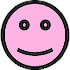
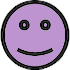
Add one more label colour.

diff --git a/src/rasterMain.js b/src/rasterMain.js
@@ -1752,7 +1752,13 @@ function loadFromString(str,showerrors,allowempty,strsource) {
         for (k=0; k<lp.s.length; k++)
             p.addservice(lp.s[k]);
         p.threats = lp.t;
-        if (lp.c && lp.c.length==7)
+        // Upgrade from version 1 to version 2: an additional color was added
+        if (upgrade_1_2 && lp.c && lp.c.length==7) {
+        	lp.c[7] = lp.c[6];
+        	lp.c[6] = lp.c[5];
+        	lp.c[5] = _("Pink");
+        }
+        if (lp.c && lp.c.length==8)
             p.labels = lp.c;
         p.store();
     }
@@ -2999,6 +3005,7 @@ function initTabDiagrams() {
     $('#mi_ccyellow').on('mouseup', colorfunc('yellow') );
     $('#mi_ccgreen').on('mouseup', colorfunc('green') );
     $('#mi_ccblue').on('mouseup', colorfunc('blue') );
+    $('#mi_ccpink').on('mouseup', colorfunc('pink') );
     $('#mi_ccpurple').on('mouseup', colorfunc('purple') );
     $('#mi_ccgrey').on('mouseup', colorfunc('grey') );
     $('#mi_ccedit').on('mouseup', showLabelEditForm );
@@ -3093,6 +3100,7 @@ function initTabDiagrams() {
     $('#mi_scyellow').on('mouseup', selcolorfunc('yellow') );
     $('#mi_scgreen').on('mouseup', selcolorfunc('green') );
     $('#mi_scblue').on('mouseup', selcolorfunc('blue') );
+    $('#mi_scpink').on('mouseup', selcolorfunc('pink') );
     $('#mi_scpurple').on('mouseup', selcolorfunc('purple') );
     $('#mi_scgrey').on('mouseup', selcolorfunc('grey') );
     $('#mi_scedit').on('mouseup', showLabelEditForm );
@@ -3198,16 +3206,18 @@ function populateLabelMenu() {
     $('#mi_ccyellow .labeltext').html( '"' + H(p.labels[2]) + '"' );
     $('#mi_ccgreen .labeltext').html( '"' + H(p.labels[3]) + '"' );
     $('#mi_ccblue .labeltext').html( '"' + H(p.labels[4]) + '"' );
-    $('#mi_ccpurple .labeltext').html( '"' + H(p.labels[5]) + '"' );
-    $('#mi_ccgrey .labeltext').html( '"' + H(p.labels[6]) + '"' );
+    $('#mi_ccpink .labeltext').html( '"' + H(p.labels[5]) + '"' );
+    $('#mi_ccpurple .labeltext').html( '"' + H(p.labels[6]) + '"' );
+    $('#mi_ccgrey .labeltext').html( '"' + H(p.labels[7]) + '"' );
     
     $('#mi_scred .labeltext').html( '"' + H(p.labels[0]) + '"' );
     $('#mi_scorange .labeltext').html( '"' + H(p.labels[1]) + '"' );
     $('#mi_scyellow .labeltext').html( '"' + H(p.labels[2]) + '"' );
     $('#mi_scgreen .labeltext').html( '"' + H(p.labels[3]) + '"' );
     $('#mi_scblue .labeltext').html( '"' + H(p.labels[4]) + '"' );
-    $('#mi_scpurple .labeltext').html( '"' + H(p.labels[5]) + '"' );
-    $('#mi_scgrey .labeltext').html( '"' + H(p.labels[6]) + '"' );
+    $('#mi_scpink .labeltext').html( '"' + H(p.labels[5]) + '"' );
+    $('#mi_scpurple .labeltext').html( '"' + H(p.labels[6]) + '"' );
+    $('#mi_scgrey .labeltext').html( '"' + H(p.labels[7]) + '"' );
 }
 
 function showLabelEditForm() {
@@ -3221,6 +3231,7 @@ function showLabelEditForm() {
         <div class="smallblock Byellow"></div><input id="field_yellow" class="field_label_text" name="fld_yellow" type="text" value="_YELLOW_"><br>\
         <div class="smallblock Bgreen"></div><input id="field_green" class="field_label_text" name="fld_green" type="text" value="_GREEN_"><br>\
         <div class="smallblock Bblue"></div><input id="field_blue" class="field_label_text" name="fld_blue" type="text" value="_BLUE_"><br>\
+        <div class="smallblock Bpink"></div><input id="field_pink" class="field_label_text" name="fld_pink" type="text" value="_PINK_"><br>\
         <div class="smallblock Bpurple"></div><input id="field_purple" class="field_label_text" name="fld_purple" type="text" value="_PURPLE_"><br>\
         <div class="smallblock Bgrey"></div><input id="field_grey" class="field_label_text" name="fld_grey" type="text" value="_GREY_"><br>\
         </form>\
@@ -3230,8 +3241,9 @@ function showLabelEditForm() {
     snippet = snippet.replace(/_YELLOW_/g, H(p.labels[2]));
     snippet = snippet.replace(/_GREEN_/g, H(p.labels[3]));
     snippet = snippet.replace(/_BLUE_/g, H(p.labels[4]));
-    snippet = snippet.replace(/_PURPLE_/g, H(p.labels[5]));
-    snippet = snippet.replace(/_GREY_/g, H(p.labels[6]));
+    snippet = snippet.replace(/_PINK_/g, H(p.labels[5]));
+    snippet = snippet.replace(/_PURPLE_/g, H(p.labels[6]));
+    snippet = snippet.replace(/_GREY_/g, H(p.labels[7]));
     dialog.append(snippet);
     var dbuttons = [];
     dbuttons.push({
@@ -3248,9 +3260,10 @@ function showLabelEditForm() {
                 p.labels[2] = trimwhitespace(String($('#field_yellow').val())).substr(0,50);
                 p.labels[3] = trimwhitespace(String($('#field_green').val())).substr(0,50);
                 p.labels[4] = trimwhitespace(String($('#field_blue').val())).substr(0,50);
-                p.labels[5] = trimwhitespace(String($('#field_purple').val())).substr(0,50);
-                p.labels[6] = trimwhitespace(String($('#field_grey').val())).substr(0,50);
-                for (var i=0; i<=6; i++) {
+                p.labels[5] = trimwhitespace(String($('#field_pink').val())).substr(0,50);
+                p.labels[6] = trimwhitespace(String($('#field_purple').val())).substr(0,50);
+                p.labels[7] = trimwhitespace(String($('#field_grey').val())).substr(0,50);
+                for (var i=0; i<=7; i++) {
                     if (p.labels[i]=="")
                         p.labels[i] = Project.defaultlabels[i];
                 }
@@ -3264,7 +3277,7 @@ function showLabelEditForm() {
         title: _("Edit labels"),
         modal: true,
         width: 285,
-        height: 290,
+        height: 320,
         buttons: dbuttons
     });
 }
@@ -4453,6 +4466,7 @@ function listFromCluster(nc) {
     node = node.concat(sortednodeswithcolor('yellow',nc.childnodes));
     node = node.concat(sortednodeswithcolor('green',nc.childnodes));
     node = node.concat(sortednodeswithcolor('blue',nc.childnodes));
+    node = node.concat(sortednodeswithcolor('pink',nc.childnodes));
     node = node.concat(sortednodeswithcolor('purple',nc.childnodes));
     node = node.concat(sortednodeswithcolor('grey',nc.childnodes));
     node = node.concat(sortednodeswithcolor('none',nc.childnodes));

diff --git a/common/css/raster.css b/common/css/raster.css
@@ -444,7 +444,8 @@ div.popupmenuitem {
 .Byellow {background: rgb(248,255,140);}
 .Bgreen {background: rgb(204,255,144);}
 .Bblue {background: rgb(193,238,255);}
-.Bpurple {background: rgb(239,169,224);}
+.Bpink {background: rgb(254,188,251);}
+.Bpurple {background: rgb(190,148,208);}
 .Bgrey {background: rgb(177,177,177);}
 .labeltext {
     display: inline-block;
@@ -778,7 +779,8 @@ div.nodeheader {
 .yellow {color: black !important;}
 .green {color: darkgreen !important;}
 .blue {color: darkblue !important;}
-.purple {color: black !important;}
+.pink {color: black !important;}
+.purple {color: white !important;}
 .grey {color: #aaa !important;}
 .Chide {color: black !important;}
 div.nodeheader input.inplace_field {

diff --git a/src/rasterProject.js b/src/rasterProject.js
@@ -84,8 +84,8 @@ var Project = function(id,asstub) {
 Project.get = function(id) { return Project._all[id]; };
 Project.cid = 0;
 Project._all = [];
-Project.defaultlabels = [_("Red"), _("Orange"), _("Yellow"), _("Green"), _("Blue"), _("Purple"), _("Grey")];
-Project.colors = ["none","red","orange","yellow","green","blue","purple","grey"];
+Project.defaultlabels = [_("Red"), _("Orange"), _("Yellow"), _("Green"), _("Blue"), _("Pink"), _("Purple"), _("Grey")];
+Project.colors = ["none","red","orange","yellow","green","blue","pink","purple","grey"];
 
 // Check wether there is a project with name 'str' and group ToolGroup
 Project.withTitle = function(str) {

diff --git a/src/translation-nl.js b/src/translation-nl.js
@@ -179,6 +179,7 @@ _t["Orange"] = "Oranje";
 _t["Yellow"] = "Geel";
 _t["Green"] = "Groen";
 _t["Blue"] = "Blauw";
+_t["Pink"] = "Roze";
 _t["Purple"] = "Paars";
 _t["Grey"] = "Grijs";
 _t["Server is offline"] = "De server is off-line";
